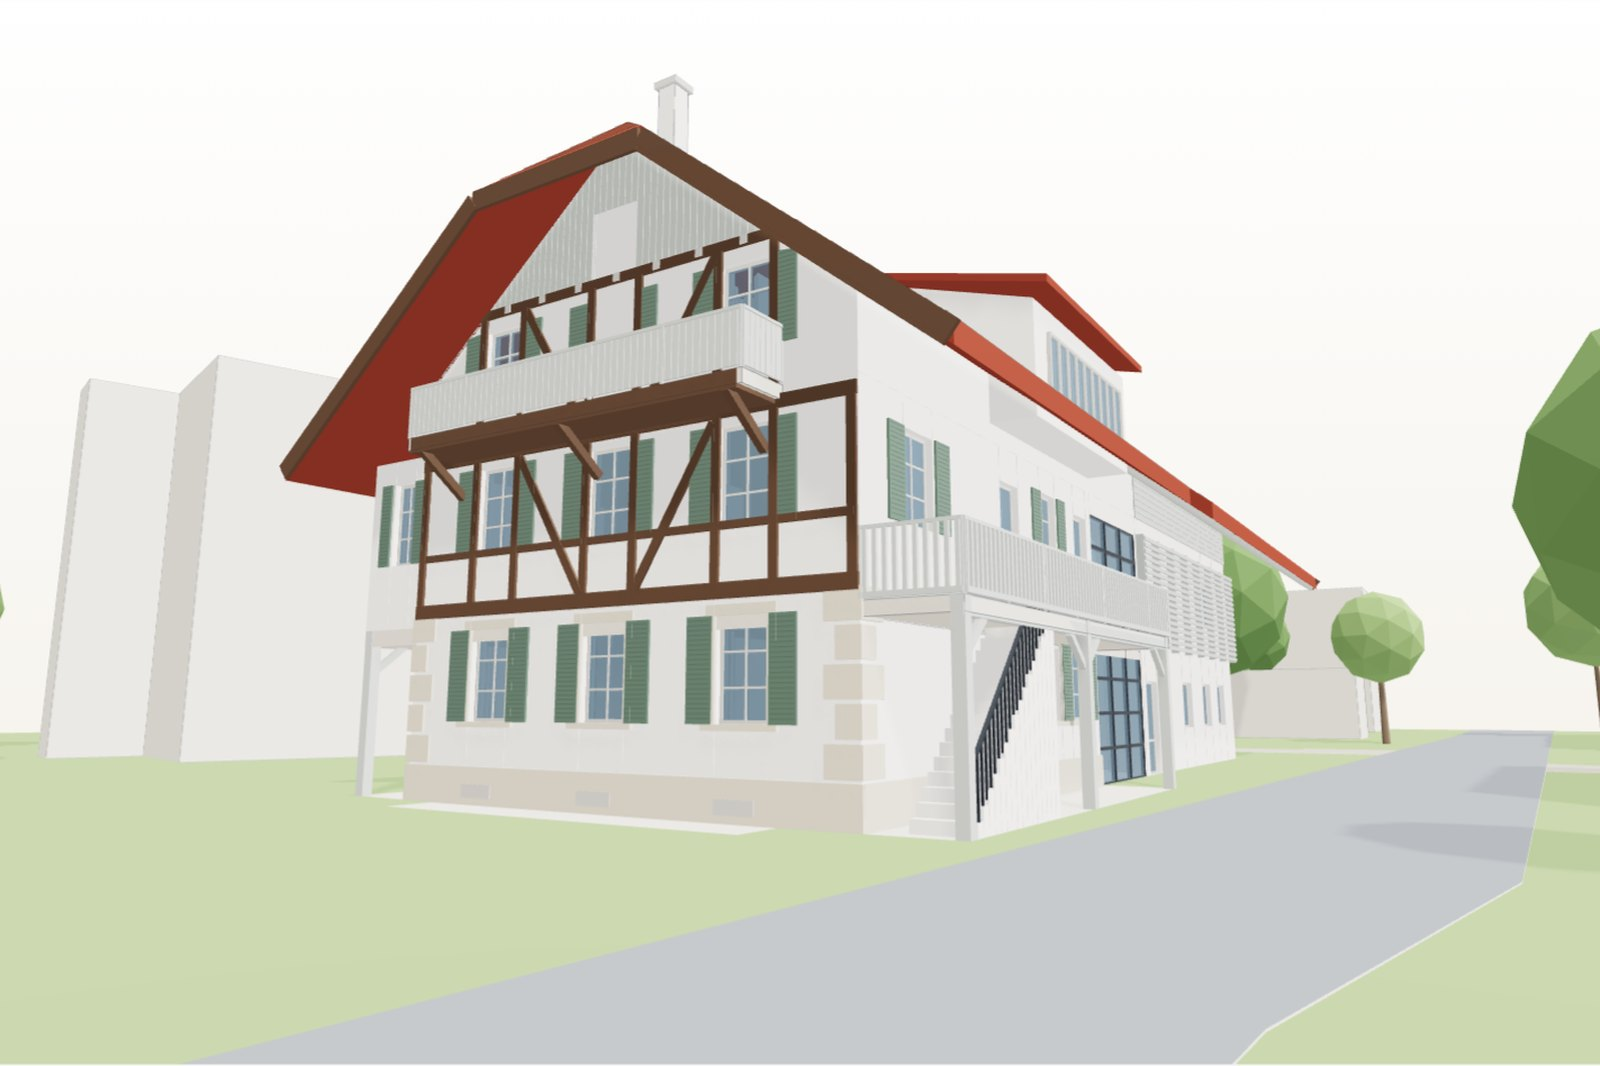
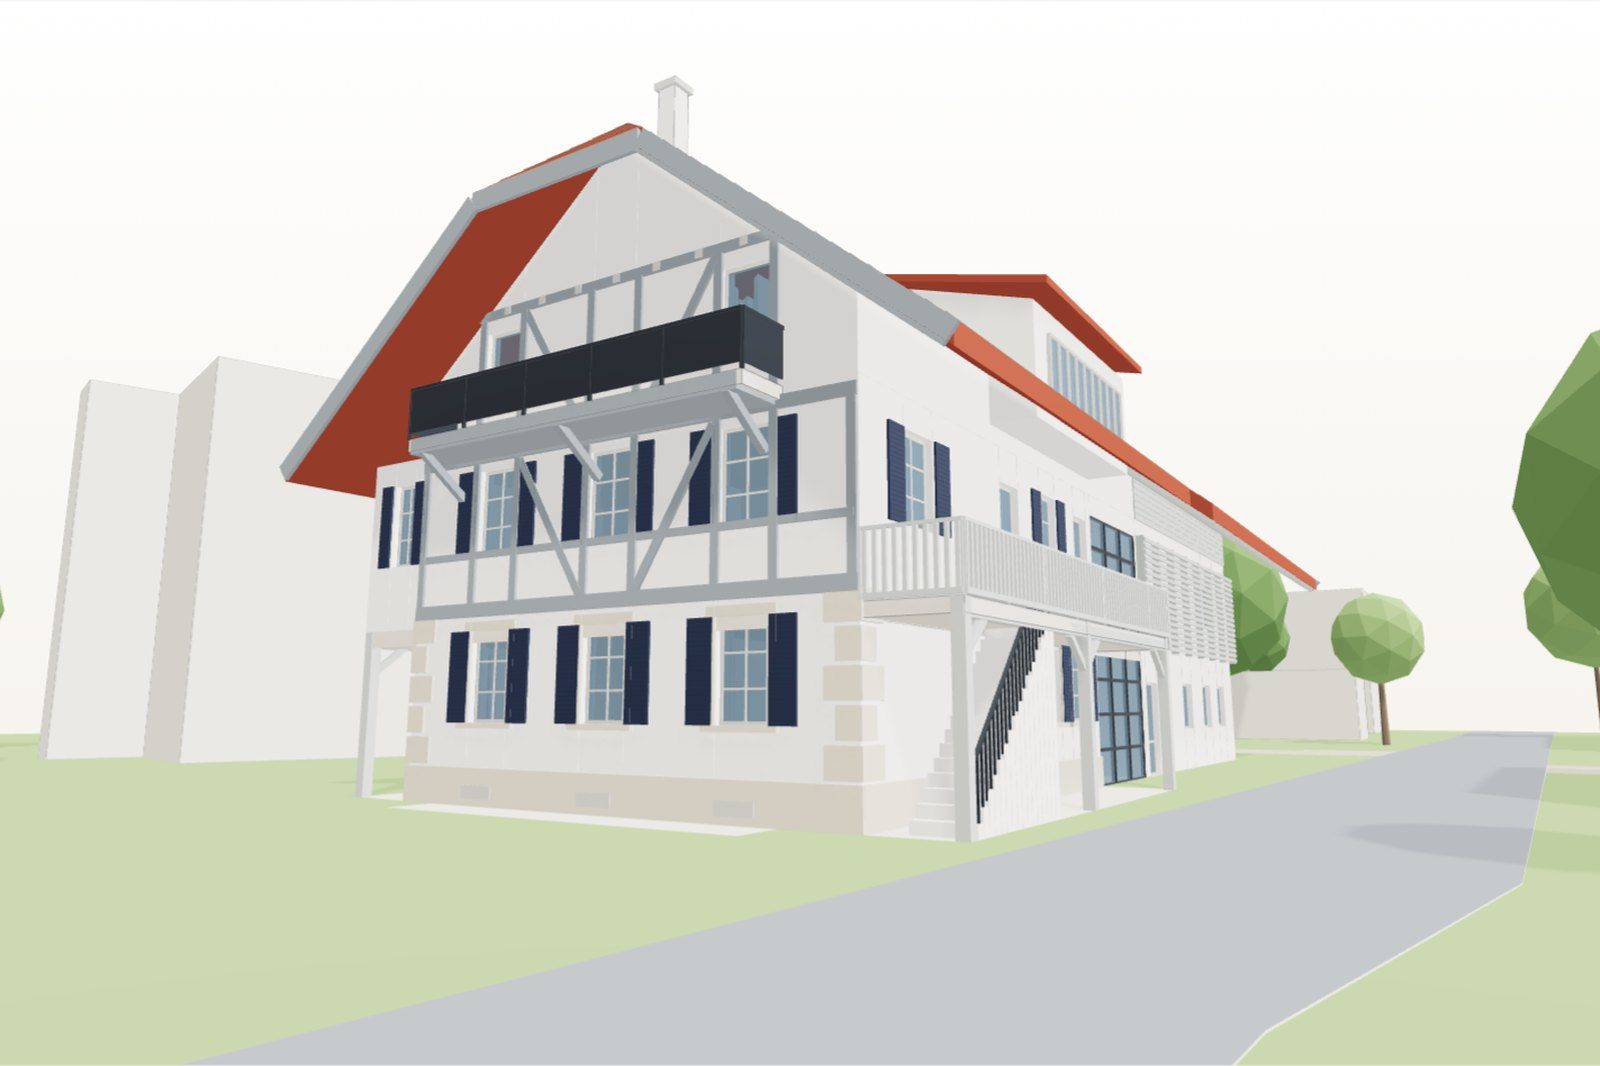
Höheweg: missing interior walls, drone before/after, colours from the 2024 drone photos
- Massive walls drawn as hatched double lines or stroked quads are now
  read from the plans (the Wohnteil end wall, stair/lift core, DG
  firewall were missing); L/T wall junctions are split into straight
  runs so they pass the wall filter
- Colours from the drone photos: grey half-timbering, navy shutters,
  sheet-metal DG balcony, gable rendered up to the apex, no shutters
  on the DG windows
- Before/after slider 2000 vs drone 2024 of the SW gable, drone image
  in the gallery, refreshed cover and 3D compare render

Claude-Session: https://claude.ai/code/session_017iE6WV9ddRYZx5X7ewEkM9

diff --git a/src/lib/modelScene.js b/src/lib/modelScene.js
@@ -69,6 +69,8 @@ export function buildModel(THREE, mergeGeometries, data, { style = 'model', scal
   mats.cframe = blueprint ? mats.frame : keep(mats.frame.clone());
   if (!blueprint && data.frameColor != null) mats.frame.color.setHex(data.frameColor);
   if (!blueprint && data.woodColor != null) mats.wood.color.setHex(data.woodColor); // painted timber (Laube, cladding)
+  if (!blueprint && data.beamColor != null) mats.beam.color.setHex(data.beamColor); // painted half-timbering / verge boards
+  if (!blueprint && data.shutterColor != null) mats.shutter.color.setHex(data.shutterColor);
 
   const shapeOf = (p) => {
     const s = new THREE.Shape(p.o.map(([x, z]) => new THREE.Vector2(x, -z)));
@@ -408,6 +410,9 @@ export function buildModel(THREE, mergeGeometries, data, { style = 'model', scal
           // turned wooden balusters between a bottom and a top rail
           for (let u = 0.08; u < L - 0.05; u += 0.15) board.push(segBox(seg, u - 0.03, u + 0.03, 0.08, rh - 0.05, -0.03, 0.03));
           board.push(segBox(seg, 0, L, 0.02, 0.1, -0.05, 0.05));
+        } else if (bal.style === 'panel') {
+          // perforated sheet-metal parapet (drawn solid)
+          board.push(segBox(seg, 0.02, L - 0.02, 0.1, rh - 0.05, -0.015, 0.015));
         } else if (bal.style === 'boards') {
           // timber Laube parapet: vertical boards with joints
           for (let u = 0.02; u < L - 0.02; u += 0.13) board.push(segBox(seg, u, Math.min(L - 0.02, u + 0.118), 0.04, rh - 0.06, -0.02, 0.02));
@@ -422,9 +427,10 @@ export function buildModel(THREE, mergeGeometries, data, { style = 'model', scal
       const pg = merged(clean(pane));
       if (pg) content.add(new THREE.Mesh(pg, mats.glass));
       const rg = merged(clean(rail));
-      if (rg) content.add(new THREE.Mesh(rg, bal.style === 'boards' || bal.style === 'balusters' ? mats.wood : mats.frame));
+      const railMat = bal.style === 'panel' ? mats.cframe : bal.style === 'boards' || bal.style === 'balusters' ? mats.wood : mats.frame;
+      if (rg) content.add(new THREE.Mesh(rg, railMat));
       const bg = merged(clean(board));
-      if (bg) { const m = new THREE.Mesh(bg, mats.wood); m.castShadow = !blueprint; content.add(m); }
+      if (bg) { const m = new THREE.Mesh(bg, bal.style === 'panel' ? mats.cframe : mats.wood); m.castShadow = !blueprint; content.add(m); }
     });
     // Louvred towers (Reduit) running through the levels
     (data.louvres || []).forEach((l) => {

diff --git a/src/components/ProjectData.js b/src/components/ProjectData.js
@@ -52,9 +52,13 @@ export const projectsData = [
     coverImage: '/images/projekte/hoeheweg-3d.jpg',
     gallery: [
       { type: 'image', url: '/images/projekte/hoeheweg-3d.jpg', alt: '3D-Modell aus den Fassadenplänen 1:100 (Aussenansicht)' },
+      { type: 'image', url: '/images/projekte/hoeheweg/drohne-2024.jpg', alt: 'Südwestgiebel heute, Drohnenaufnahme (2024)' },
       { type: 'image', url: '/images/projekte/hoeheweg/oekonomie-giebel-2009.jpg', alt: 'Umgebauter Ökonomieteil, Giebelfassade (2009)' },
       { type: 'image', url: '/images/projekte/hoeheweg/bestand-2000-nord.jpg', alt: 'Bauernhaus mit Ökonomieteil vor dem Umbau (2000)' },
       { type: 'header', title: 'Vorher / Nachher' },
+      { type: 'compare', before: '/images/projekte/hoeheweg/bestand-2000-sw.jpg', after: '/images/projekte/hoeheweg/drohne-2024-sw.jpg',
+        beforeLabel: '2000', afterLabel: '2024', beforeAlt: 'Fachwerkgiebel mit Laube vor der Sanierung (2000)', afterAlt: 'Derselbe Giebel nach der Sanierung, Drohnenaufnahme (2024)',
+        caption: 'Südwestgiebel: Fachwerk grau gefasst, neue Ziegel, Balkon im Dachgeschoss – vorher und heute aus der Luft.' },
       { type: 'compare', before: '/images/projekte/hoeheweg/oekonomie-2005.jpg', after: '/images/projekte/hoeheweg/oekonomie-2009.jpg',
         beforeLabel: '2005', afterLabel: '2009', beforeAlt: 'Ökonomieteil vor dem Umbau (2005)', afterAlt: 'Ökonomieteil nach dem Umbau zu Wohnungen (2009)',
         caption: 'Ökonomieteil: aus Scheune und Anbau wurden Wohnungen – mit Lamellenfassade und verglastem Treppenhaus.' },

diff --git a/src/data/projectsStore.js b/src/data/projectsStore.js
@@ -1,7 +1,7 @@
 import { projectsData as staticProjects, categories as staticCategories } from '@/components/ProjectData';
 
 // Bump the key whenever ProjectData.js changes so browsers drop their cached copy.
-const KEY = 'ha_projects_v7';
+const KEY = 'ha_projects_v8';
 
 function buildSeed() {
   return staticProjects.map((p, i) => ({
